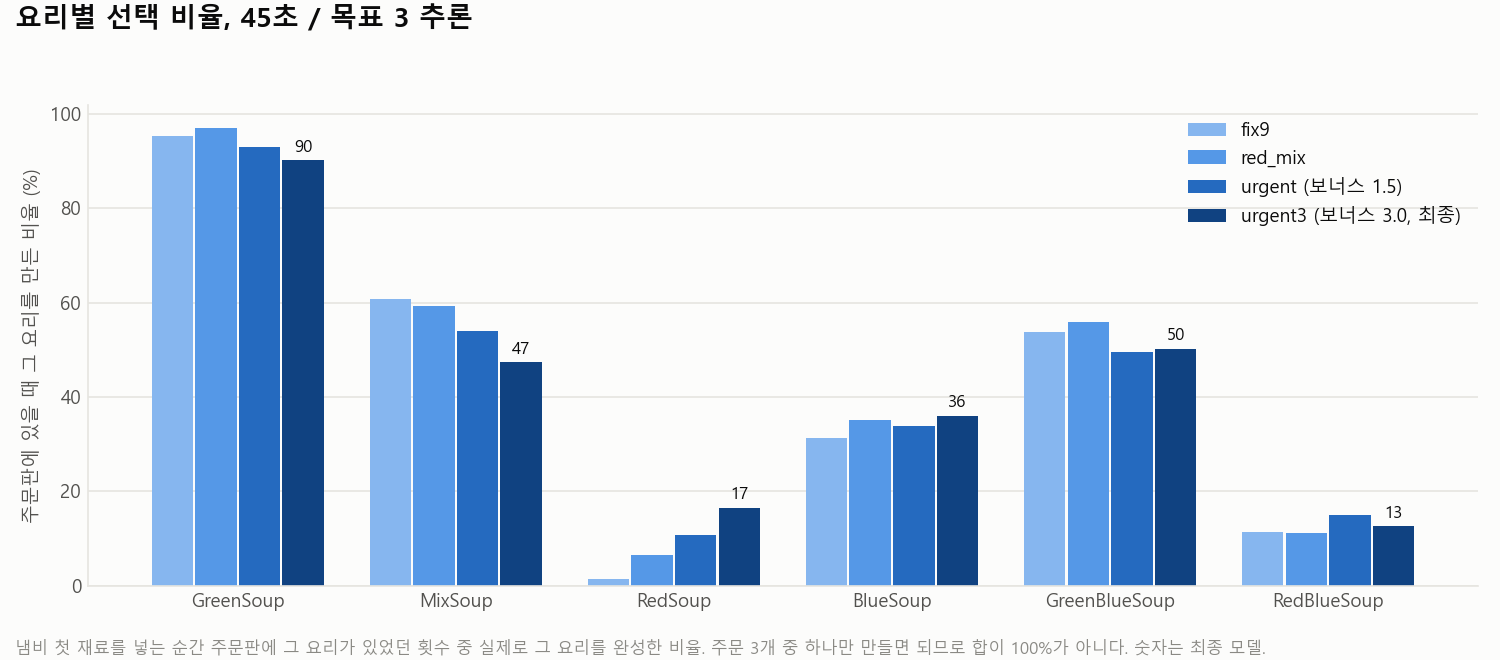
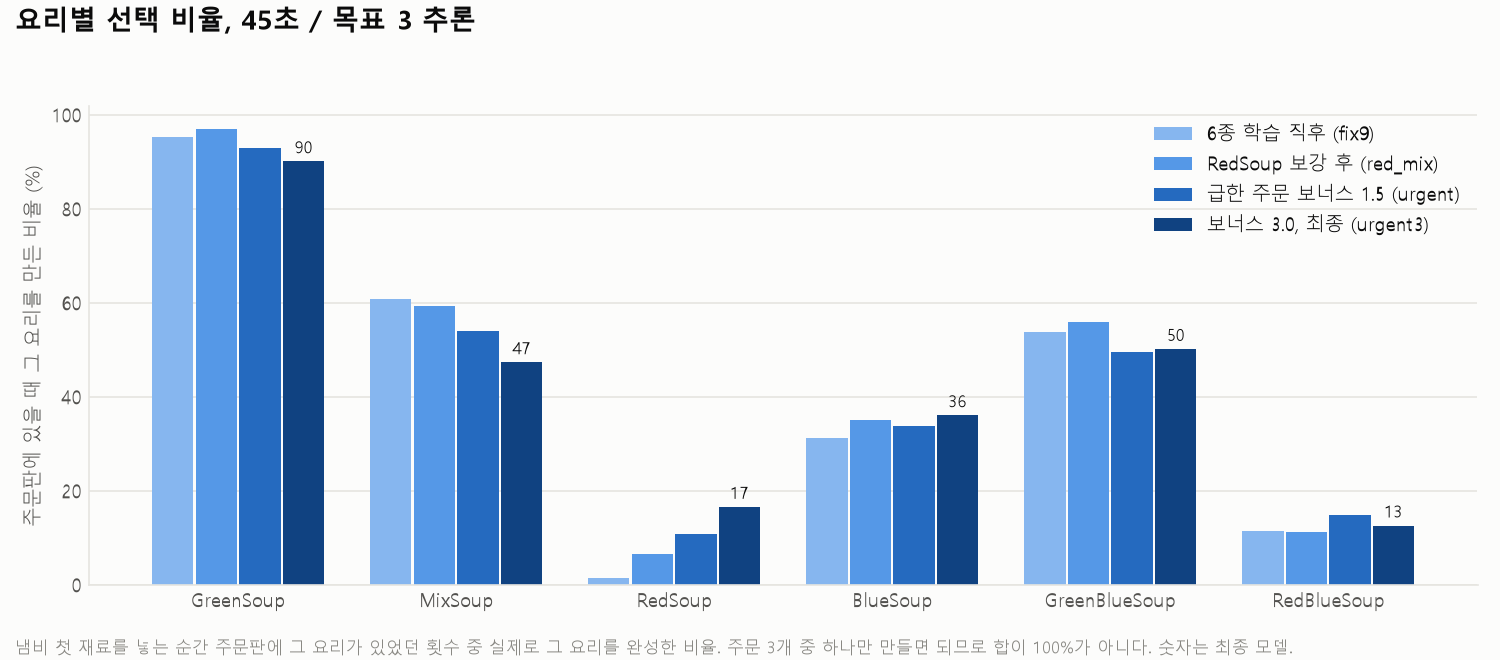
카페 글 다듬기: 그림 문구·범례, 표 열 이름 정리
- 협동 구조 그림 ④: "끝났는지는 기억해야 한다" -> "완료 여부는 관측에 없다" (본문의 LSTM 정정과 맞춤)
- 요리별 선택 비율 범례: 런 이름만 있던 것을 설명 + 런 이름으로
- 재료 2종 결과 표 "목표 달성 (학습 중)", 최종 결과 표 "성공한 판 길이 (중앙값)"
- 본문에서 설정 키 이름 recipe_pool_start 제거

diff --git a/archive/tools/figures/plot_blue.py b/archive/tools/figures/plot_blue.py
@@ -96,10 +96,10 @@ def goal_reached():
 
 # Pick rate = pots that became that recipe while it was on the board at the first ingredient
 # / commits at which that recipe was on the board (same as analyze_pot_fills.py [4]). All four are 45 s / goal 3 inference runs.
-PICK = [("eval_undercooked_blue_fix9", "fix9", "#86b6ef"),
-        ("eval_undercooked_blue_red_mix", "red_mix", "#5598e7"),
-        ("eval_undercooked_blue_urgent_45", "urgent (보너스 1.5)", "#256abf"),
-        ("eval_undercooked_blue_urgent3_45", "urgent3 (보너스 3.0, 최종)", "#104281")]
+PICK = [("eval_undercooked_blue_fix9", "6종 학습 직후 (fix9)", "#86b6ef"),
+        ("eval_undercooked_blue_red_mix", "RedSoup 보강 후 (red_mix)", "#5598e7"),
+        ("eval_undercooked_blue_urgent_45", "급한 주문 보너스 1.5 (urgent)", "#256abf"),
+        ("eval_undercooked_blue_urgent3_45", "보너스 3.0, 최종 (urgent3)", "#104281")]
 RECIPES = ["GreenSoup", "MixSoup", "RedSoup", "BlueSoup", "GreenBlueSoup", "RedBlueSoup"]
 
 
